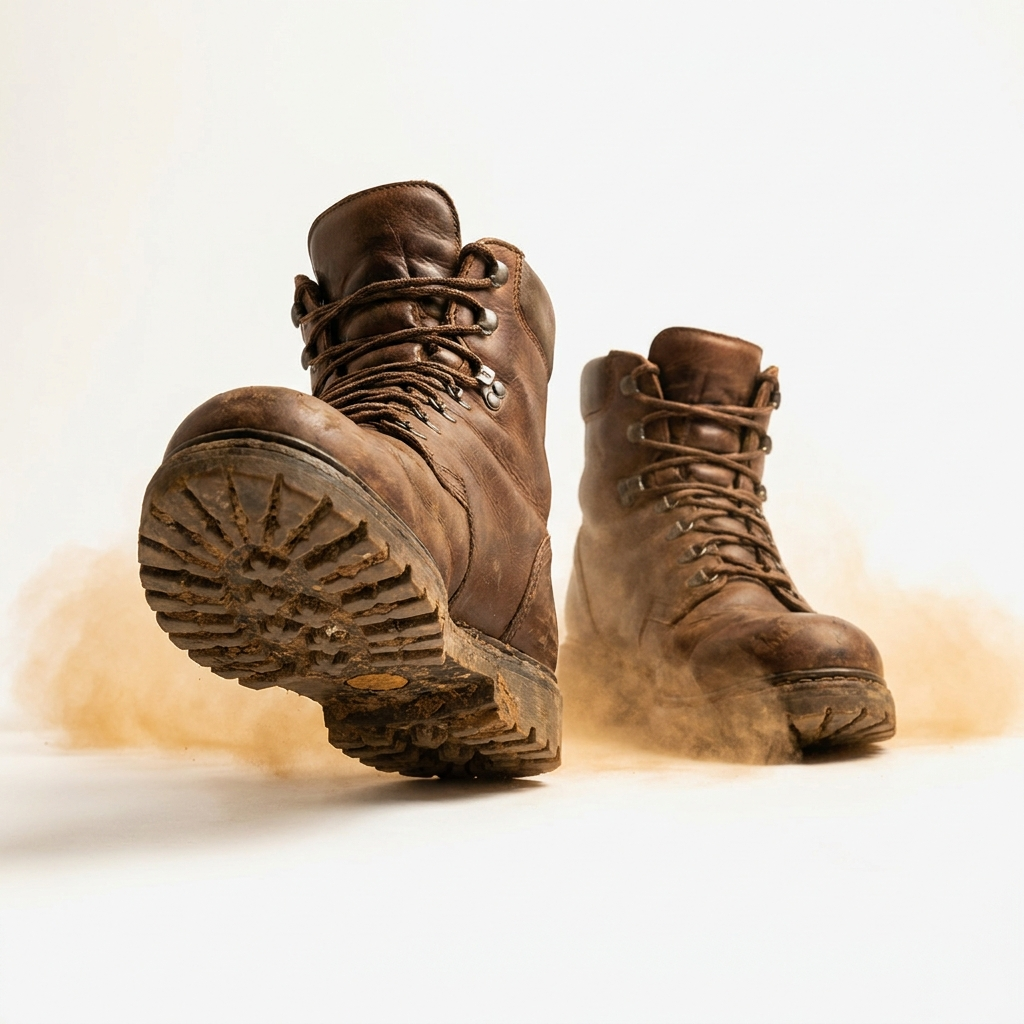
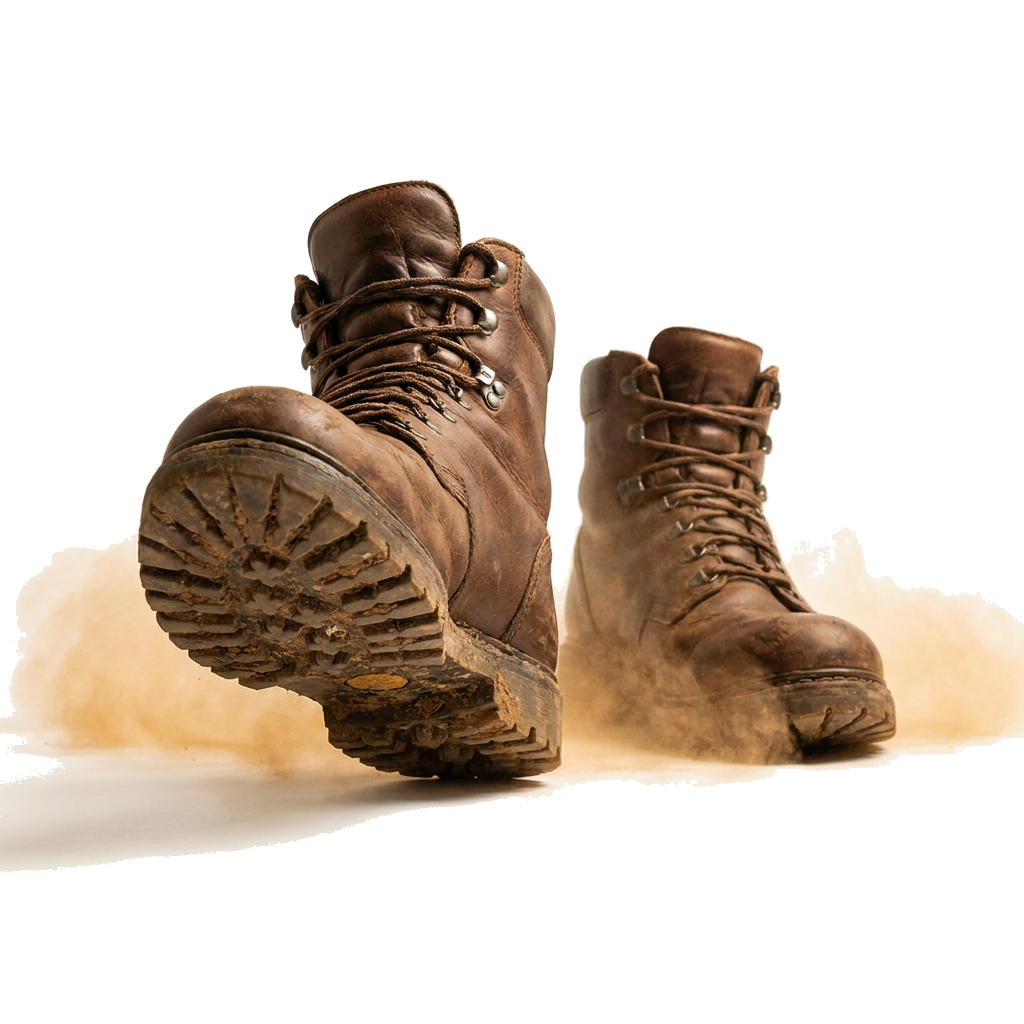
Drop hero boots down and clean the head-on PNG whitepoint
Bumps the boots' top from 110/80 to 210/180 so they sit lower in the
hero next to the headline. Cleans the new head-on PNG by clamping every
near-white, low-saturation pixel to true #FFFFFF so the multiply blend
no longer leaves a rectangular halo on the clay (about 62% of the image
becomes pure white). Dust and contact shadows stay intact. Cache-bust to
?v=3.

https://claude.ai/code/session_01GgvrzpWmDgxHPsL2up3mK2

diff --git a/V3Hero.jsx b/V3Hero.jsx
@@ -9,7 +9,7 @@ function V3Hero() {
       <div style={{ position: "absolute", inset: 0, background: "repeating-linear-gradient(45deg, rgba(20,16,12,0.06) 0 1.5px, transparent 1.5px 6px)", mixBlendMode: "multiply", pointerEvents: "none" }} />
 
       {/* FLOATING HIKING BOOTS — scales with viewport, sits behind copy on mobile */}
-      <img src="assets/hiking-boots-v2.png?v=1" alt="" style={{ position: "absolute", right: isMobile ? "-20vw" : -40, top: isMobile ? 80 : 110, width: "min(720px, 92vw)", maxWidth: 720, mixBlendMode: "multiply", filter: "contrast(1.05) saturate(0.9)", transform: "rotate(-4deg)", pointerEvents: "none", zIndex: 1, opacity: isMobile ? 0.55 : 1 }} />
+      <img src="assets/hiking-boots-v2.png?v=3" alt="" style={{ position: "absolute", right: isMobile ? "-20vw" : -40, top: isMobile ? 180 : 210, width: "min(720px, 92vw)", maxWidth: 720, mixBlendMode: "multiply", filter: "contrast(1.05) saturate(0.9)", transform: "rotate(-4deg)", pointerEvents: "none", zIndex: 1, opacity: isMobile ? 0.55 : 1 }} />
 
       {/* MAIN PHRASE */}
       <div style={{ position: "relative", padding: "clamp(48px, 8vw, 80px) clamp(20px, 5vw, 64px)", zIndex: 3 }}>
